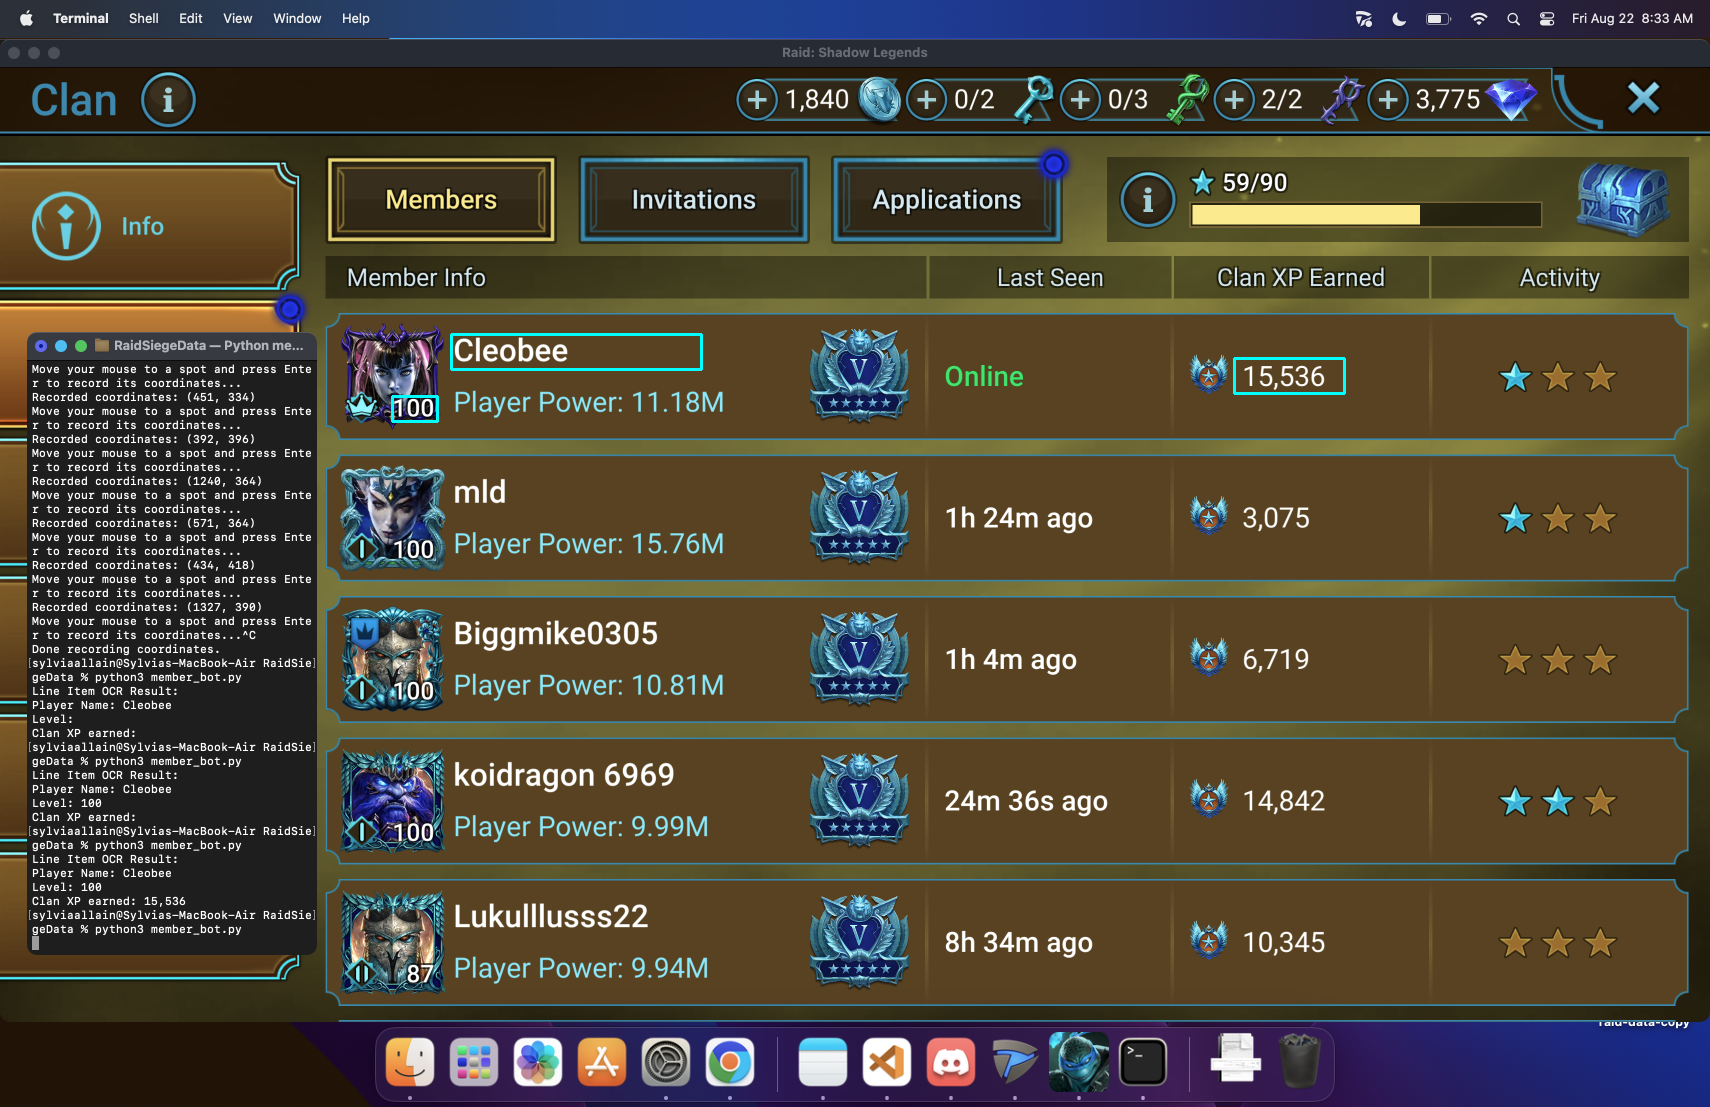
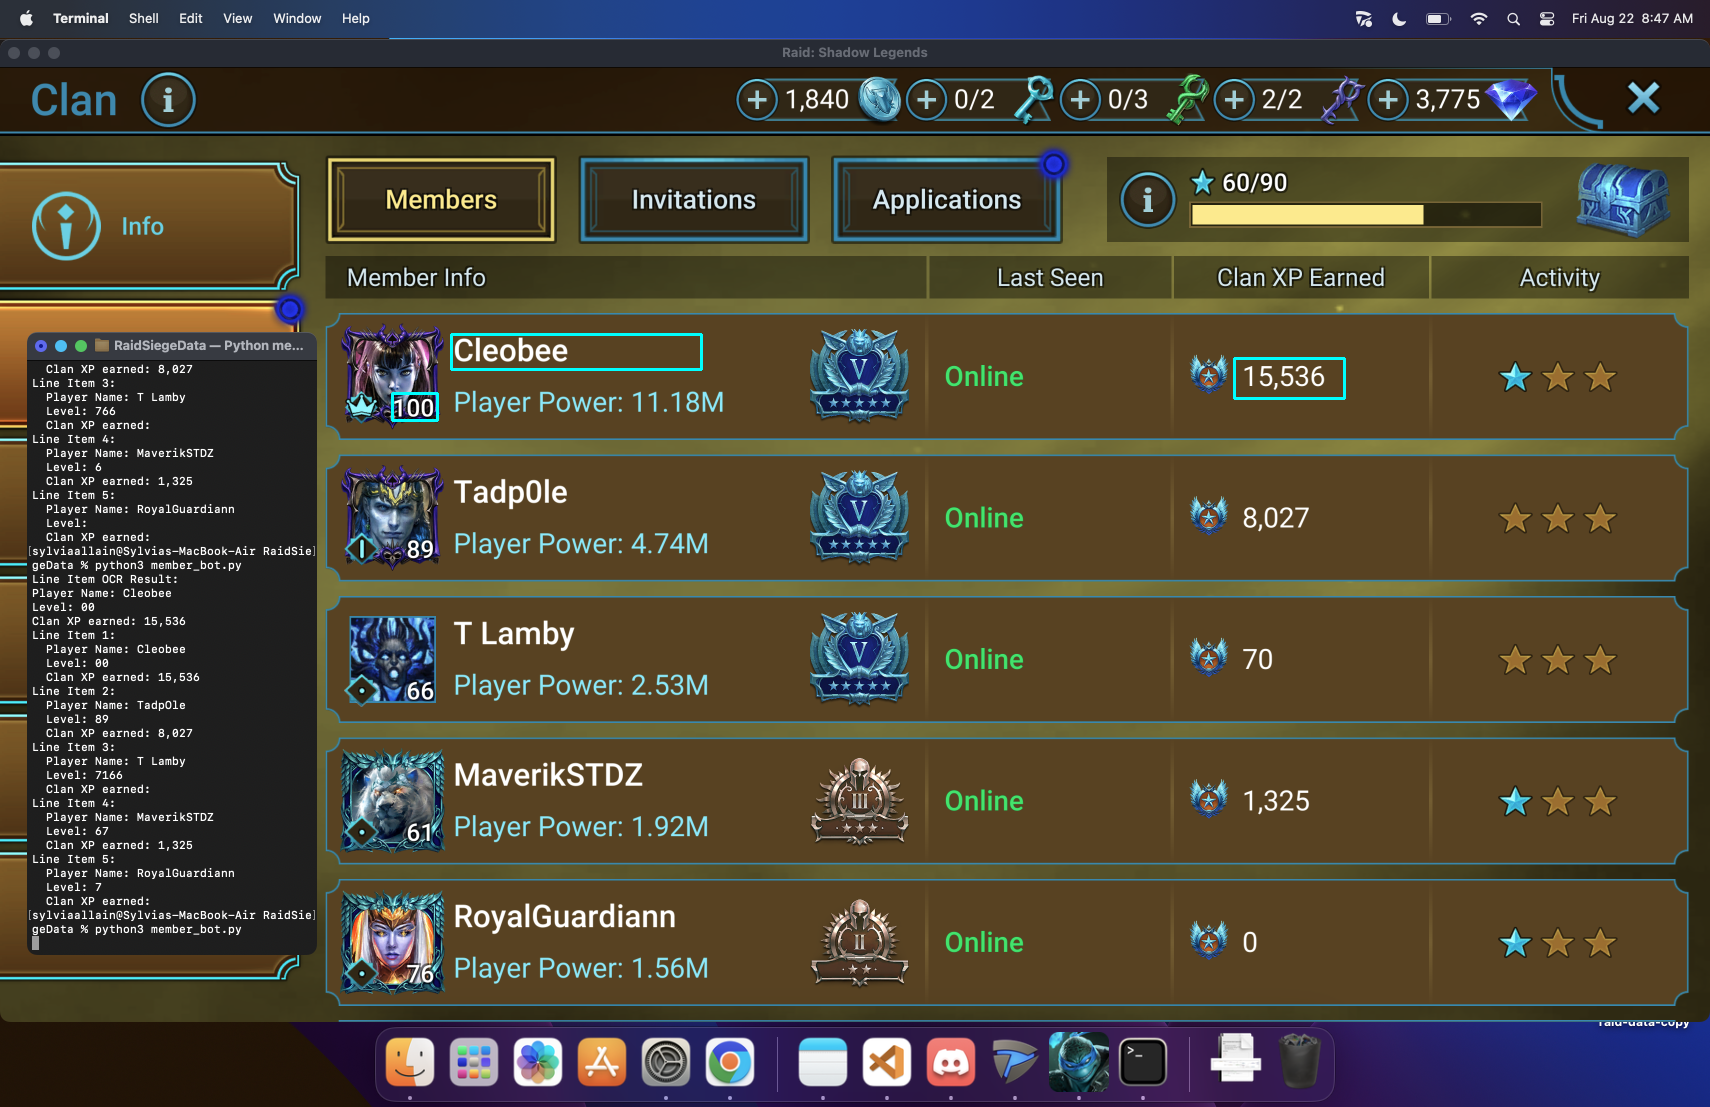
Read each member line item

diff --git a/member_bot.py b/member_bot.py
@@ -2,13 +2,14 @@ import mss
 import numpy as np
 from PIL import Image
 import pytesseract
+import cv2
 
 def read_single_line_item(upper_left, debug_img_path=None):
     # Field definitions: (x_offset, y_offset, width, height)
     fields = {
         "Player Name": (112, 21, 250, 35),
-        "Level": (53, 83, 45, 25),
-        "Clan XP earned": (895, 45, 110, 35)
+        "Level": (53, 80, 45, 27),
+        "Clan XP earned": (895, 45, 110, 40)
     }
 
     # Take a screenshot of the whole screen
@@ -27,16 +28,64 @@ def read_single_line_item(upper_left, debug_img_path=None):
 
         # Crop region
         crop = scr[y1:y2, x1:x2]
-        img = Image.fromarray(crop)
-        text = pytesseract.image_to_string(img).strip()
+        if field == "Level":
+            # Convert to grayscale
+            gray = cv2.cvtColor(crop, cv2.COLOR_BGR2GRAY)
+            alpha = 2.0
+            beta = -160
+            contrasted = cv2.convertScaleAbs(gray, alpha=alpha, beta=beta)
+            _, thresh = cv2.threshold(contrasted, 180, 255, cv2.THRESH_BINARY)
+            kernel = np.ones((2,2), np.uint8)
+            cleaned = cv2.morphologyEx(thresh, cv2.MORPH_OPEN, kernel)
+            img = Image.fromarray(cleaned)
+            img = img.resize((img.width * 2, img.height * 2), Image.BICUBIC)
+            img.save(f"debug/level_field_{y1}_{x1}.png")
+            custom_config = r'--oem 3 --psm 8 -c tessedit_char_whitelist=0123456789'
+            text = pytesseract.image_to_string(img, config=custom_config).strip()
+        else:
+            img = Image.fromarray(crop)
+            text = pytesseract.image_to_string(img).strip()
         results[field] = text
 
         # Draw rectangle for debug
-        import cv2
         cv2.rectangle(debug_img, (x1, y1), (x2, y2), (0, 255, 255), 2)
 
     # Optionally save debug image
     if debug_img_path:
+        Image.fromarray(debug_img).save(debug_img_path)
+
+    return results
+
+def read_all_line_items(start_upper_left, num_items=5, item_height=141, debug_img_path=None):
+    results = []
+    debug_img = None
+
+    # Take a screenshot of the whole screen
+    with mss.mss() as sct:
+        mon = sct.monitors[1] if len(sct.monitors) > 1 else sct.monitors[0]
+        scr = np.array(sct.grab(mon))[:, :, :3]
+
+    for i in range(num_items):
+        upper_left = (start_upper_left[0], start_upper_left[1] + i * item_height)
+        item_result = read_single_line_item(upper_left)
+        results.append(item_result)
+
+        # Draw rectangles for debug image
+        if debug_img is None:
+            debug_img = scr.copy()
+        for field, (x_off, y_off, w, h) in {
+            "Player Name": (112, 21, 250, 35),
+            "Level": (53, 83, 45, 25),
+            "Clan XP earned": (895, 45, 110, 35)
+        }.items():
+            x1 = upper_left[0] + x_off
+            y1 = upper_left[1] + y_off
+            x2 = x1 + w
+            y2 = y1 + h
+            cv2.rectangle(debug_img, (x1, y1), (x2, y2), (0, 255, 255), 2)
+
+    # Optionally save debug image
+    if debug_img_path and debug_img is not None:
         Image.fromarray(debug_img).save(debug_img_path)
 
     return results
@@ -49,3 +98,14 @@ if __name__ == "__main__":
     print("Line Item OCR Result:")
     for k, v in line_item.items():
         print(f"{k}: {v}")
+
+    all_items = read_all_line_items(
+        start_upper_left=(339, 313),
+        num_items=5,
+        item_height=141,
+        debug_img_path="debug/member_bot_allitems.png"
+    )
+    for idx, item in enumerate(all_items, 1):
+        print(f"Line Item {idx}:")
+        for k, v in item.items():
+            print(f"  {k}: {v}")
